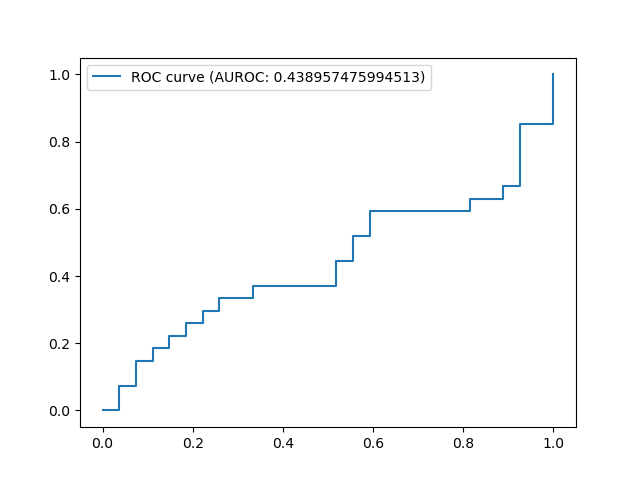
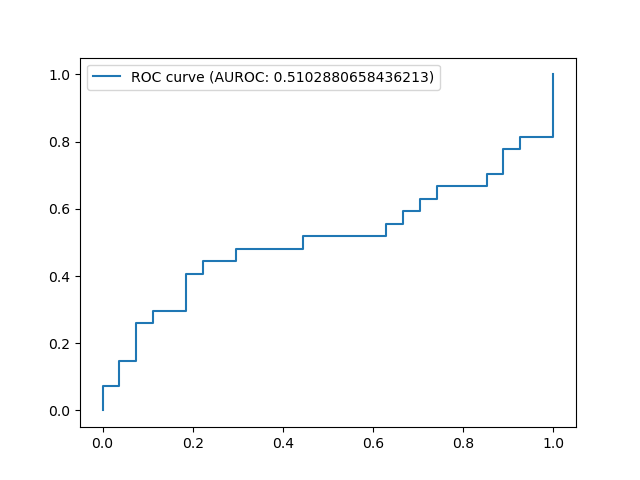
added README and edited test to take all features from NTU_features_all

diff --git a/NTU/test.py b/NTU/test.py
@@ -78,7 +78,7 @@ frame_lens = {'train': [148, 130, 130, 148, 130, 148, 130, 130, 148, 130, 130, 1
 bi3dof_simple_test_in = {
     "model_file" : "bi3dof-simple-600epoch-6seq.pt", # "model/nuscenes-mini/bi3dof-simple-600epoch.pt",
     "network" : "simple",   
-    "test_clips": "../NTU_features/in.test", # "data/nuscenes-v1.0-mini.test",      
+    "test_clips": "../NTU_features_all/in.test", # "data/nuscenes-v1.0-mini.test",      
     "frames_per_clip": frame_lens['in']
 }
 
@@ -141,5 +141,5 @@ def run(type_of_OOD):
 	print('Average detection delay for OOD traces: ', det_delay)
 	print('TNR: ', TNR)
 
-for type_of_OOD in ['out_rainy']: # ['out_snowy', 'out_foggy', 'out_night']:
+for type_of_OOD in ['out_snowy', 'out_foggy', 'out_night', 'out_rainy']:
 	run(type_of_OOD)

diff --git a/README.md b/README.md
@@ -1,0 +1,33 @@
+Setup Vanderbilt_data in following folder structure at ./
+```bash
+├── Vanderbilt_data
+│   ├── testing
+│   │   ├── in
+│   │   ├── out_foggy/out
+│   │   ├── out_night/out
+│   │   ├── out_rainy/out
+│   │   ├── out_snowy/out
+│   ├── training
+│   │   ├── setting_1
+│   │   ├── setting_2
+│   │   ├── setting_3
+├── NTU
+├── NTU_features_all (created by below)
+```
+
+Then run the following to extract features to ./NTU_features_all/. The following also produces the dictionary of frame lengths (frame_lens) that is pasted into the training and test code below.
+```
+python feature_abstraction.py
+```
+
+Run code to train a model which will be saved within NTU directory.
+```
+cd NTU
+python train_nuscenes-mini.py
+```
+
+Test as follows. Plots will be saved to NTU/plots/ and results will be printed to stdout.
+```
+cd NTU
+python test.py
+```
